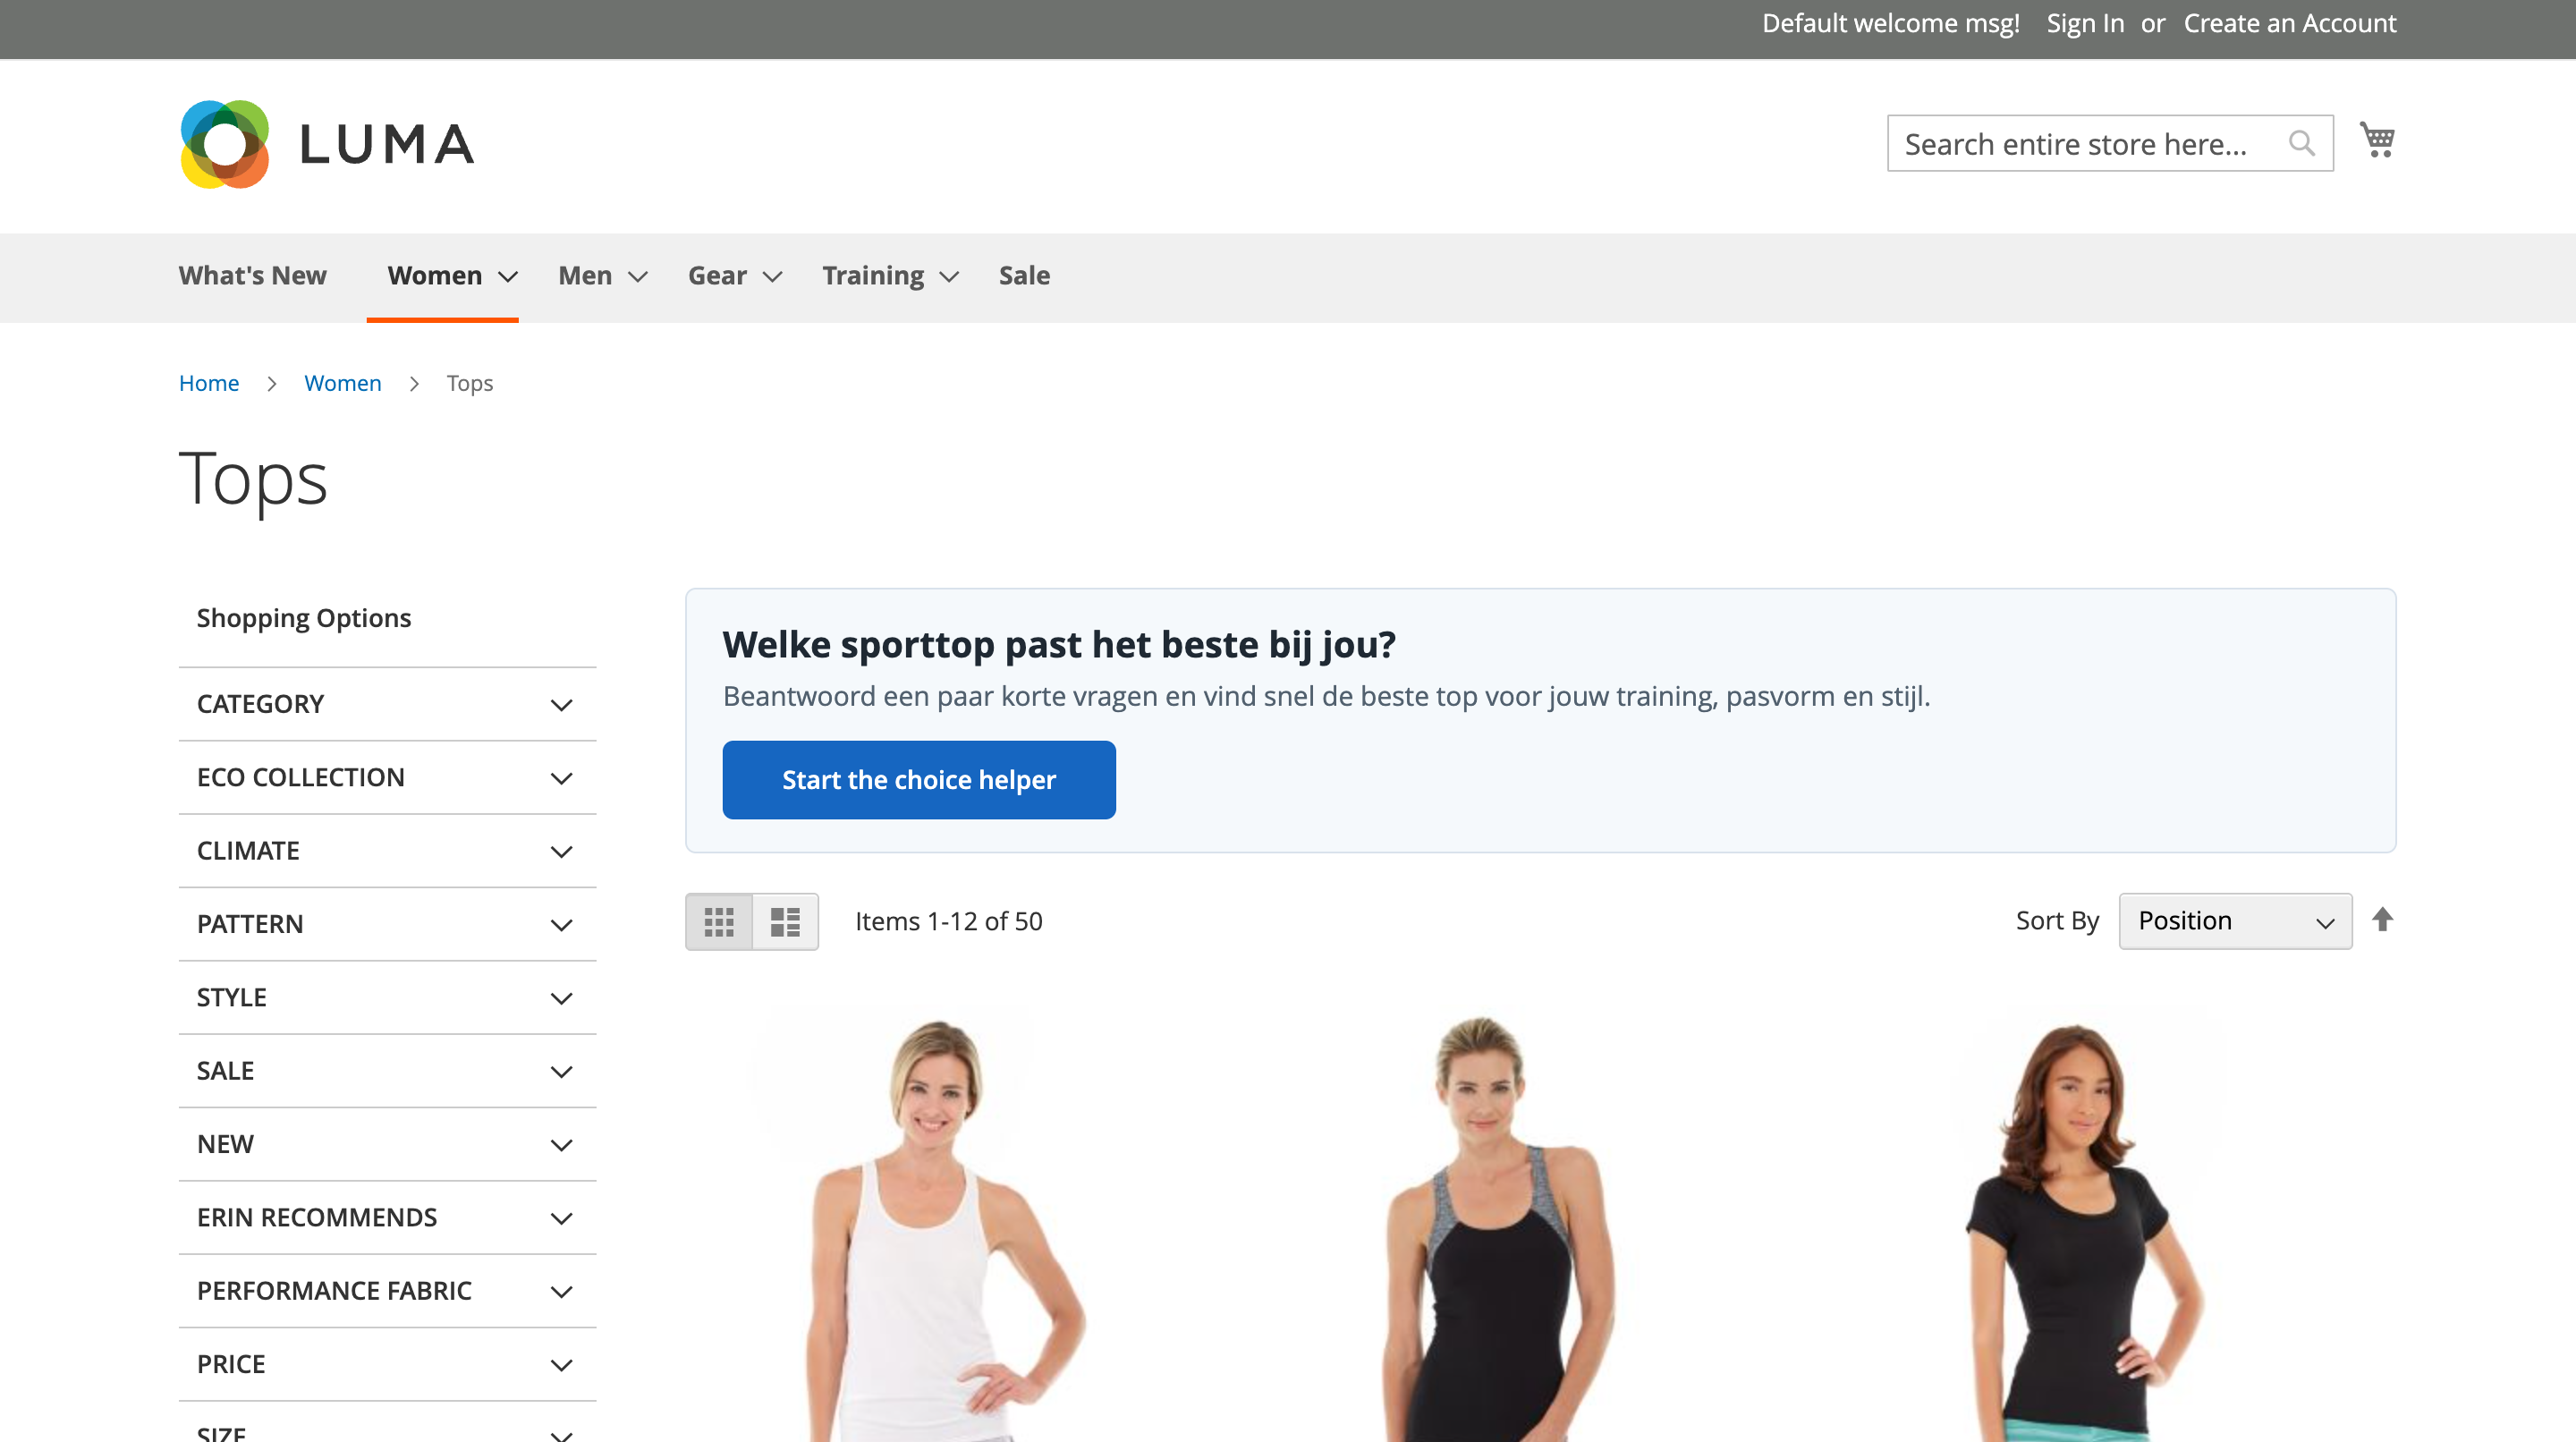
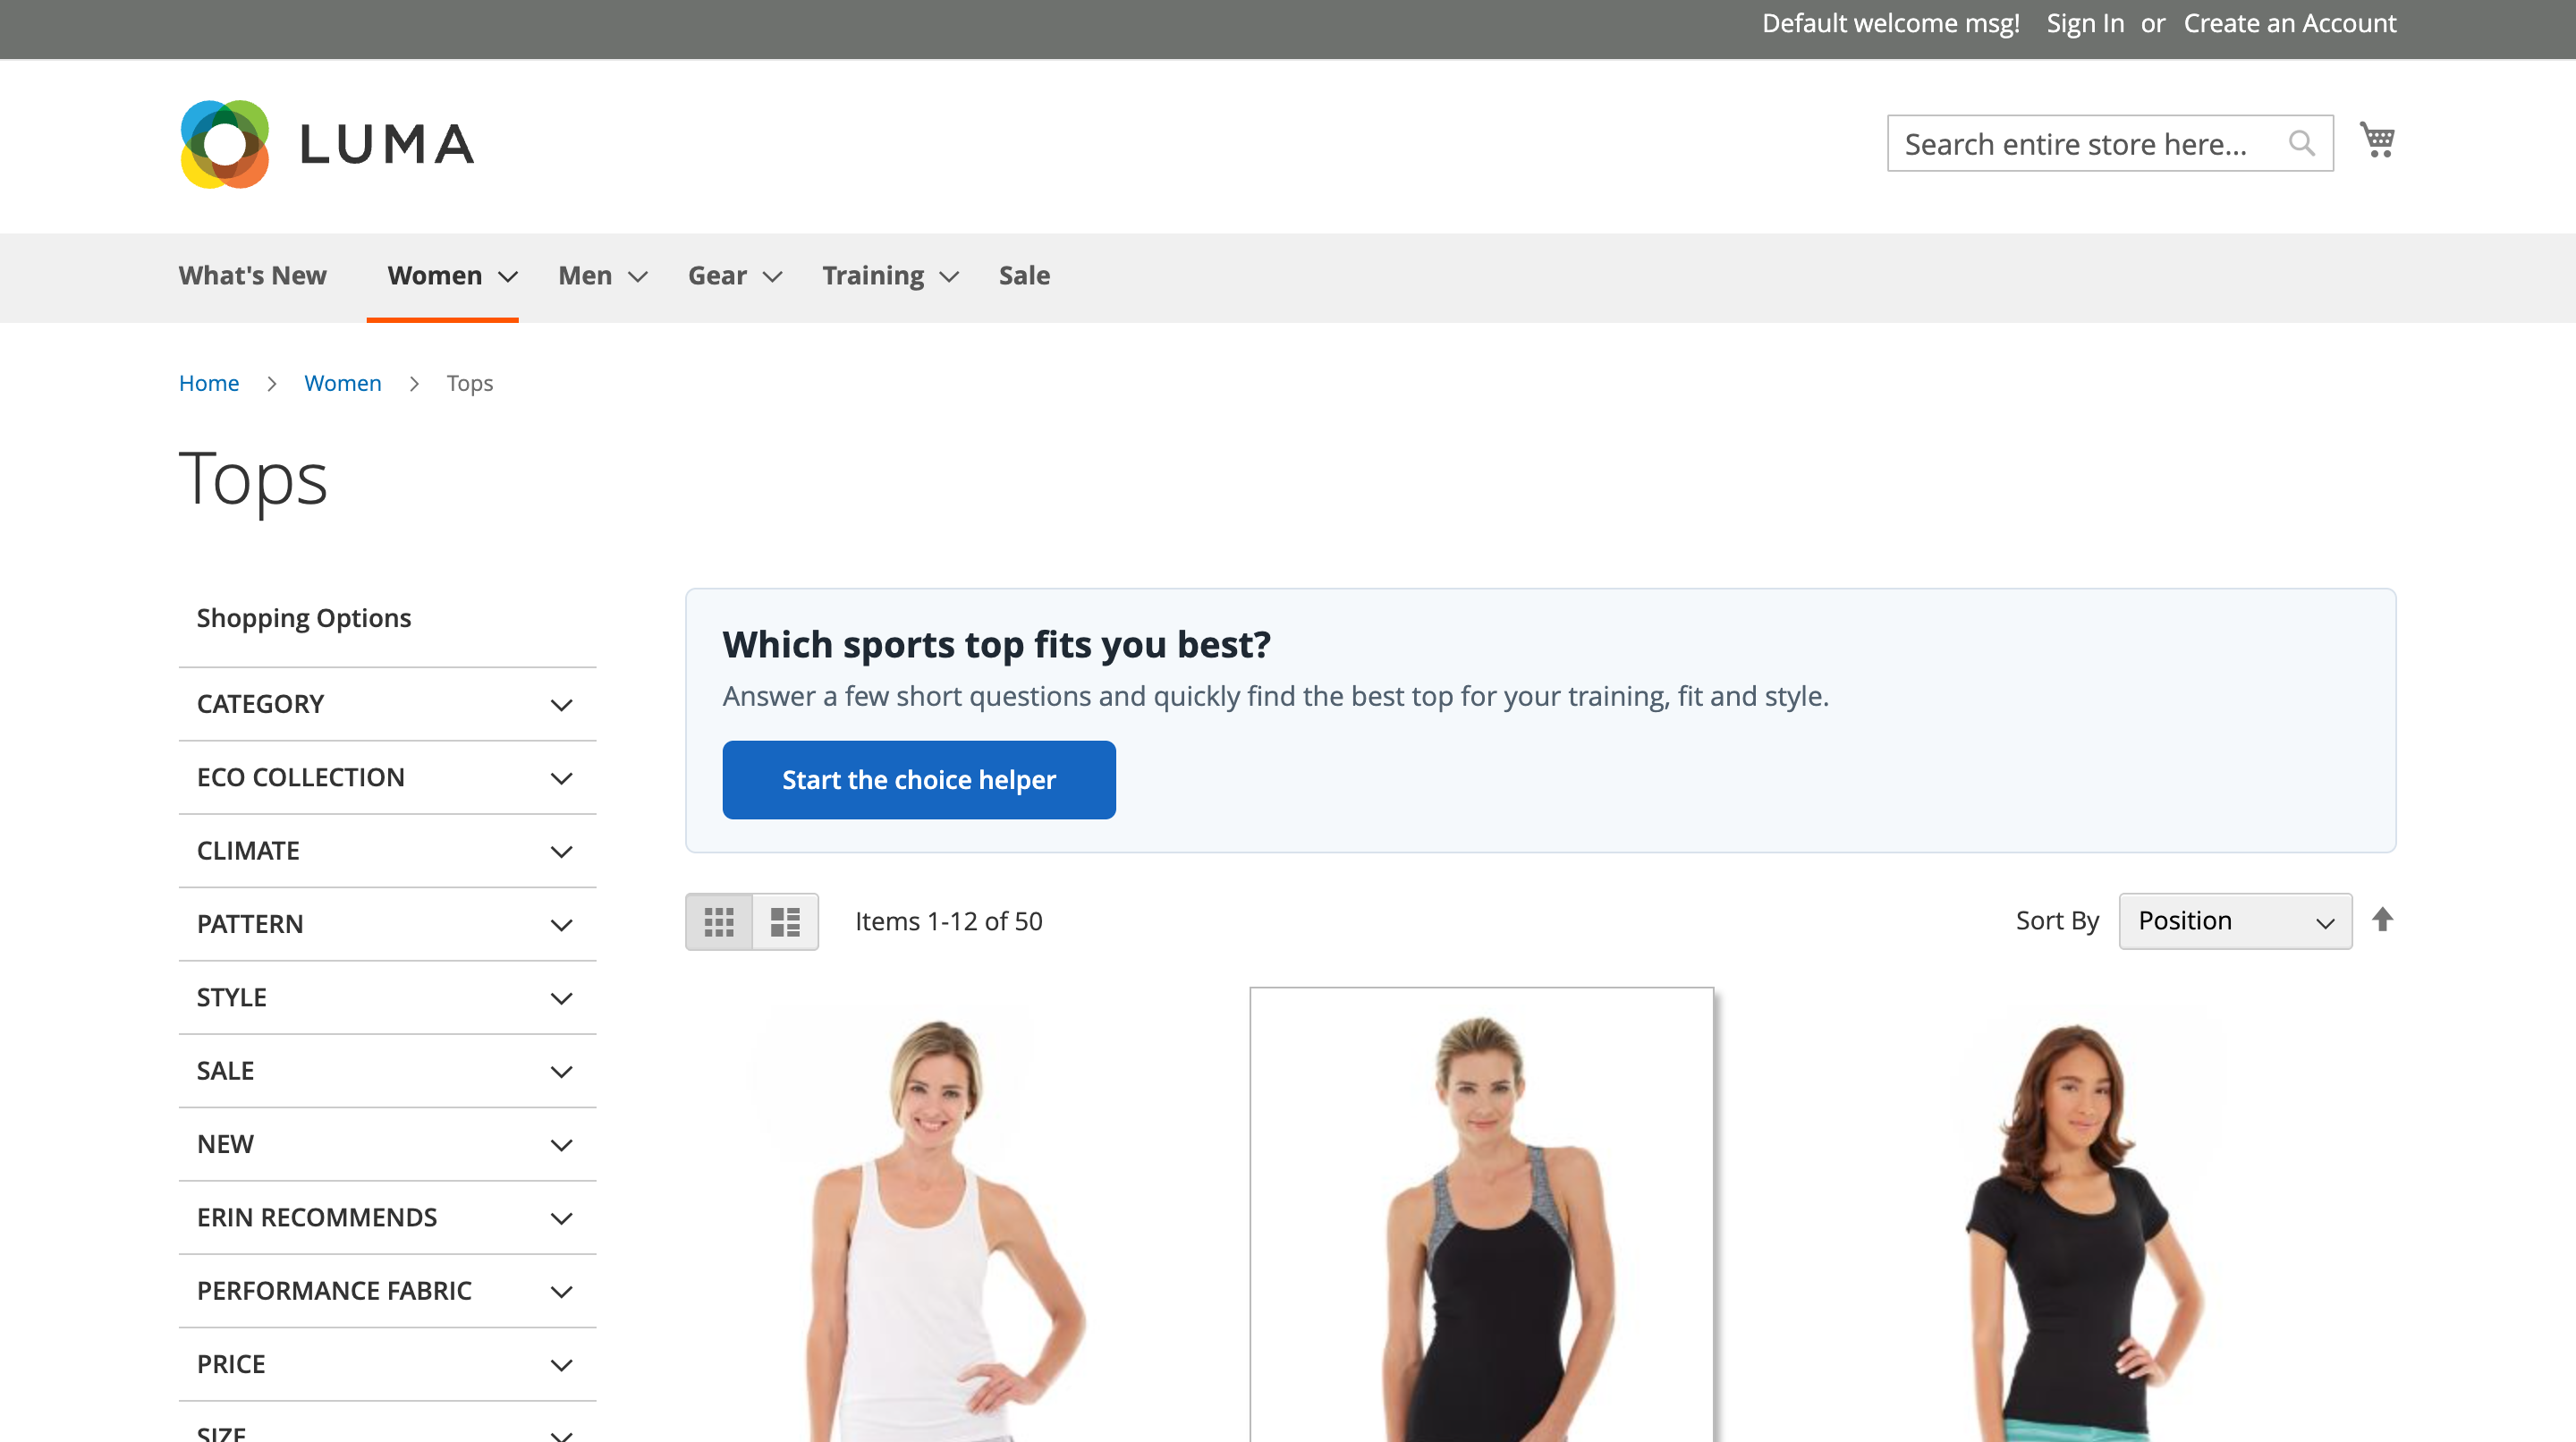
Release 1.0.0

Changed region(s): [[0.2812, 0.4342, 0.75, 0.4963], [0.6562, 0.6824, 0.6875, 1.0]]

diff --git a/Block/Embed.php b/Block/Embed.php
@@ -25,7 +25,7 @@ class Embed extends Template
     private const XML_PATH_MARKET_CODE = 'berrypath_flow/general/market_code';
     private const XML_PATH_PRODUCT_IDENTIFIER = 'berrypath_flow/product/product_identifier';
 
-    public const EMBED_ORIGIN = 'https://app.berrypath.development:8443';
+    public const EMBED_ORIGIN = 'https://www.berrypath.eu';
     public const LOADER_SCRIPT_URL = self::EMBED_ORIGIN . '/embed/berrypath.js';
 
     protected $_template = 'BerryPath_Flow::widget.phtml';